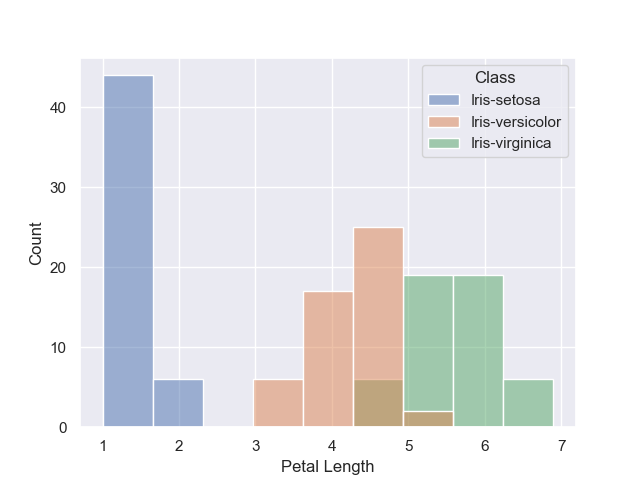
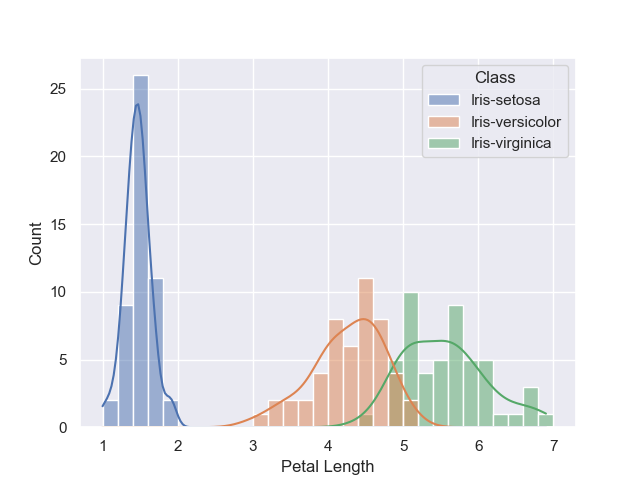
readme update

diff --git a/analysis.py b/analysis.py
@@ -52,7 +52,7 @@ def summary_stats(data, vars, filename='summary/variable_summary.txt'):
 def plot_histograms(data, vars):   
     for var in vars:
         plt.figure()
-        sns.histplot(data=data, x=var, hue="Class")
+        sns.histplot(data=data, x=var, hue="Class", binwidth=0.2, kde=True)
         plt.savefig(f'plots/histogram_{var}.png')  
 
 
@@ -60,7 +60,7 @@ def plot_histograms(data, vars):
 # call summary_stats to write a file which summarises the data
 # returns a dataframe of the summary stats
 data_wo_class = data[variables[:-1]]
-print(data_wo_class.head())
+#print(data_wo_class.head())
 summary_stats_df = summary_stats(data[variables[:-1]], variables[:-1])
 summary_stats_df.to_csv("summary/summary of stats.csv")
 plot_histograms(data, variables[:-1])
@@ -94,8 +94,8 @@ bin_size = 0.2
 #print(all_min, min_petallength)
 
 min_PL = all_min["Petal Length"]
-print("ALL MIN", all_min)
-print("min_PL", min_PL)
+#print("ALL MIN", all_min)
+#print("min_PL", min_PL)
 
 #bins = np.arange(math.floor(all_min["Petal Length"]), math.ceil(all_max["Petal Length"])+1, bin_size)
 #print(min_data)

diff --git a/README.md b/README.md
@@ -9,3 +9,5 @@ The project for the PANDS module 2023
 **References:
 1. Fischer's Iris Dataset: https://archive.ics.uci.edu/ml/datasets/iris
 2. Iris data set wiki page: https://en.wikipedia.org/wiki/Iris_flower_data_set
+3. Seaborn histograms: https://seaborn.pydata.org/generated/seaborn.histplot.html?highlight=histplot#seaborn.histplot
+4. https://en.wikipedia.org/wiki/Linear_discriminant_analysis
